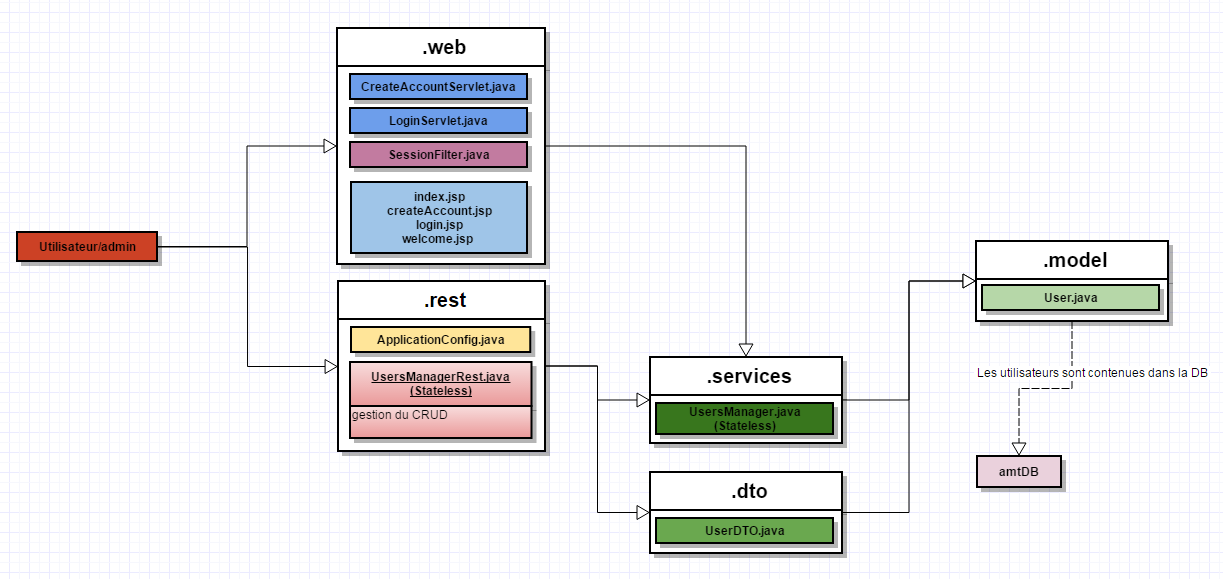
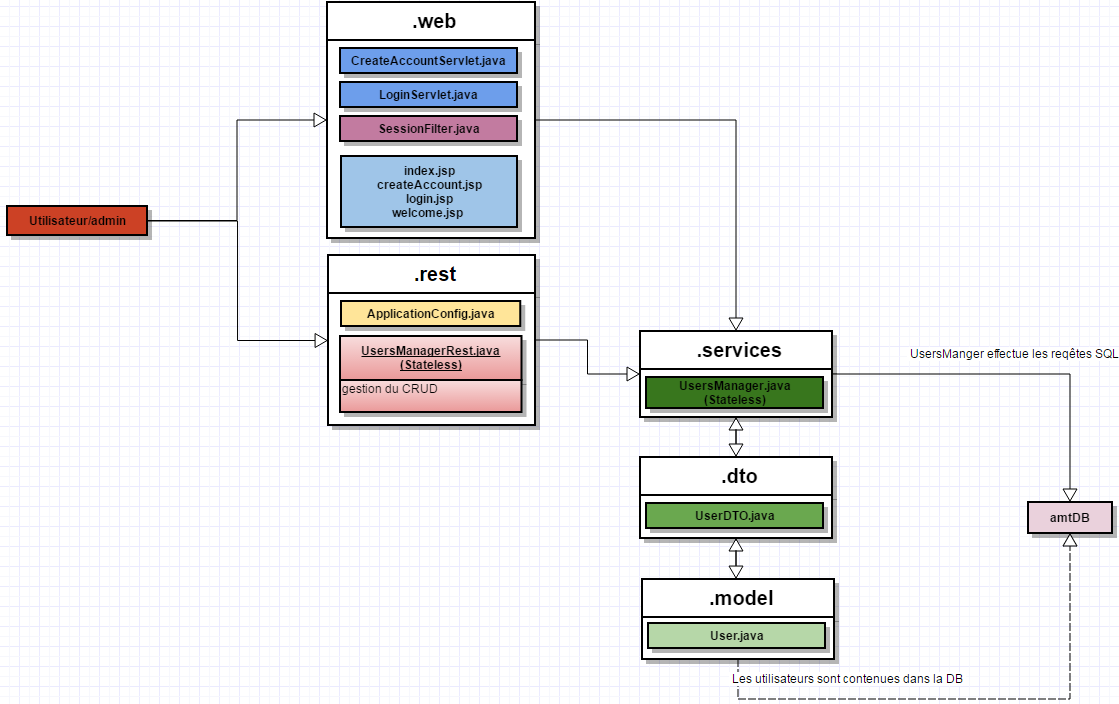
presque fini

diff --git a/README.md b/README.md
@@ -26,6 +26,10 @@ password : *admin*
 
 ![Screenshot](doc/diagramme.png)
 
+####Remarques sur le fonctionnement
+On peut voir que nos servlets ainsi que notre api REST font appellent au "userManager", celui-ci se charge de gérer les UserDTO qui font le lien
+avec les User. Le "userManager" se charge également de faire les requêtes SQL sur la base de données.
+
 
 ## api REST
 * **GET** : notre api REST contient 2 *GET*,l'un retourne tous les utilisateurs contenaut dans la base de données, et l'autre retourne les informations
